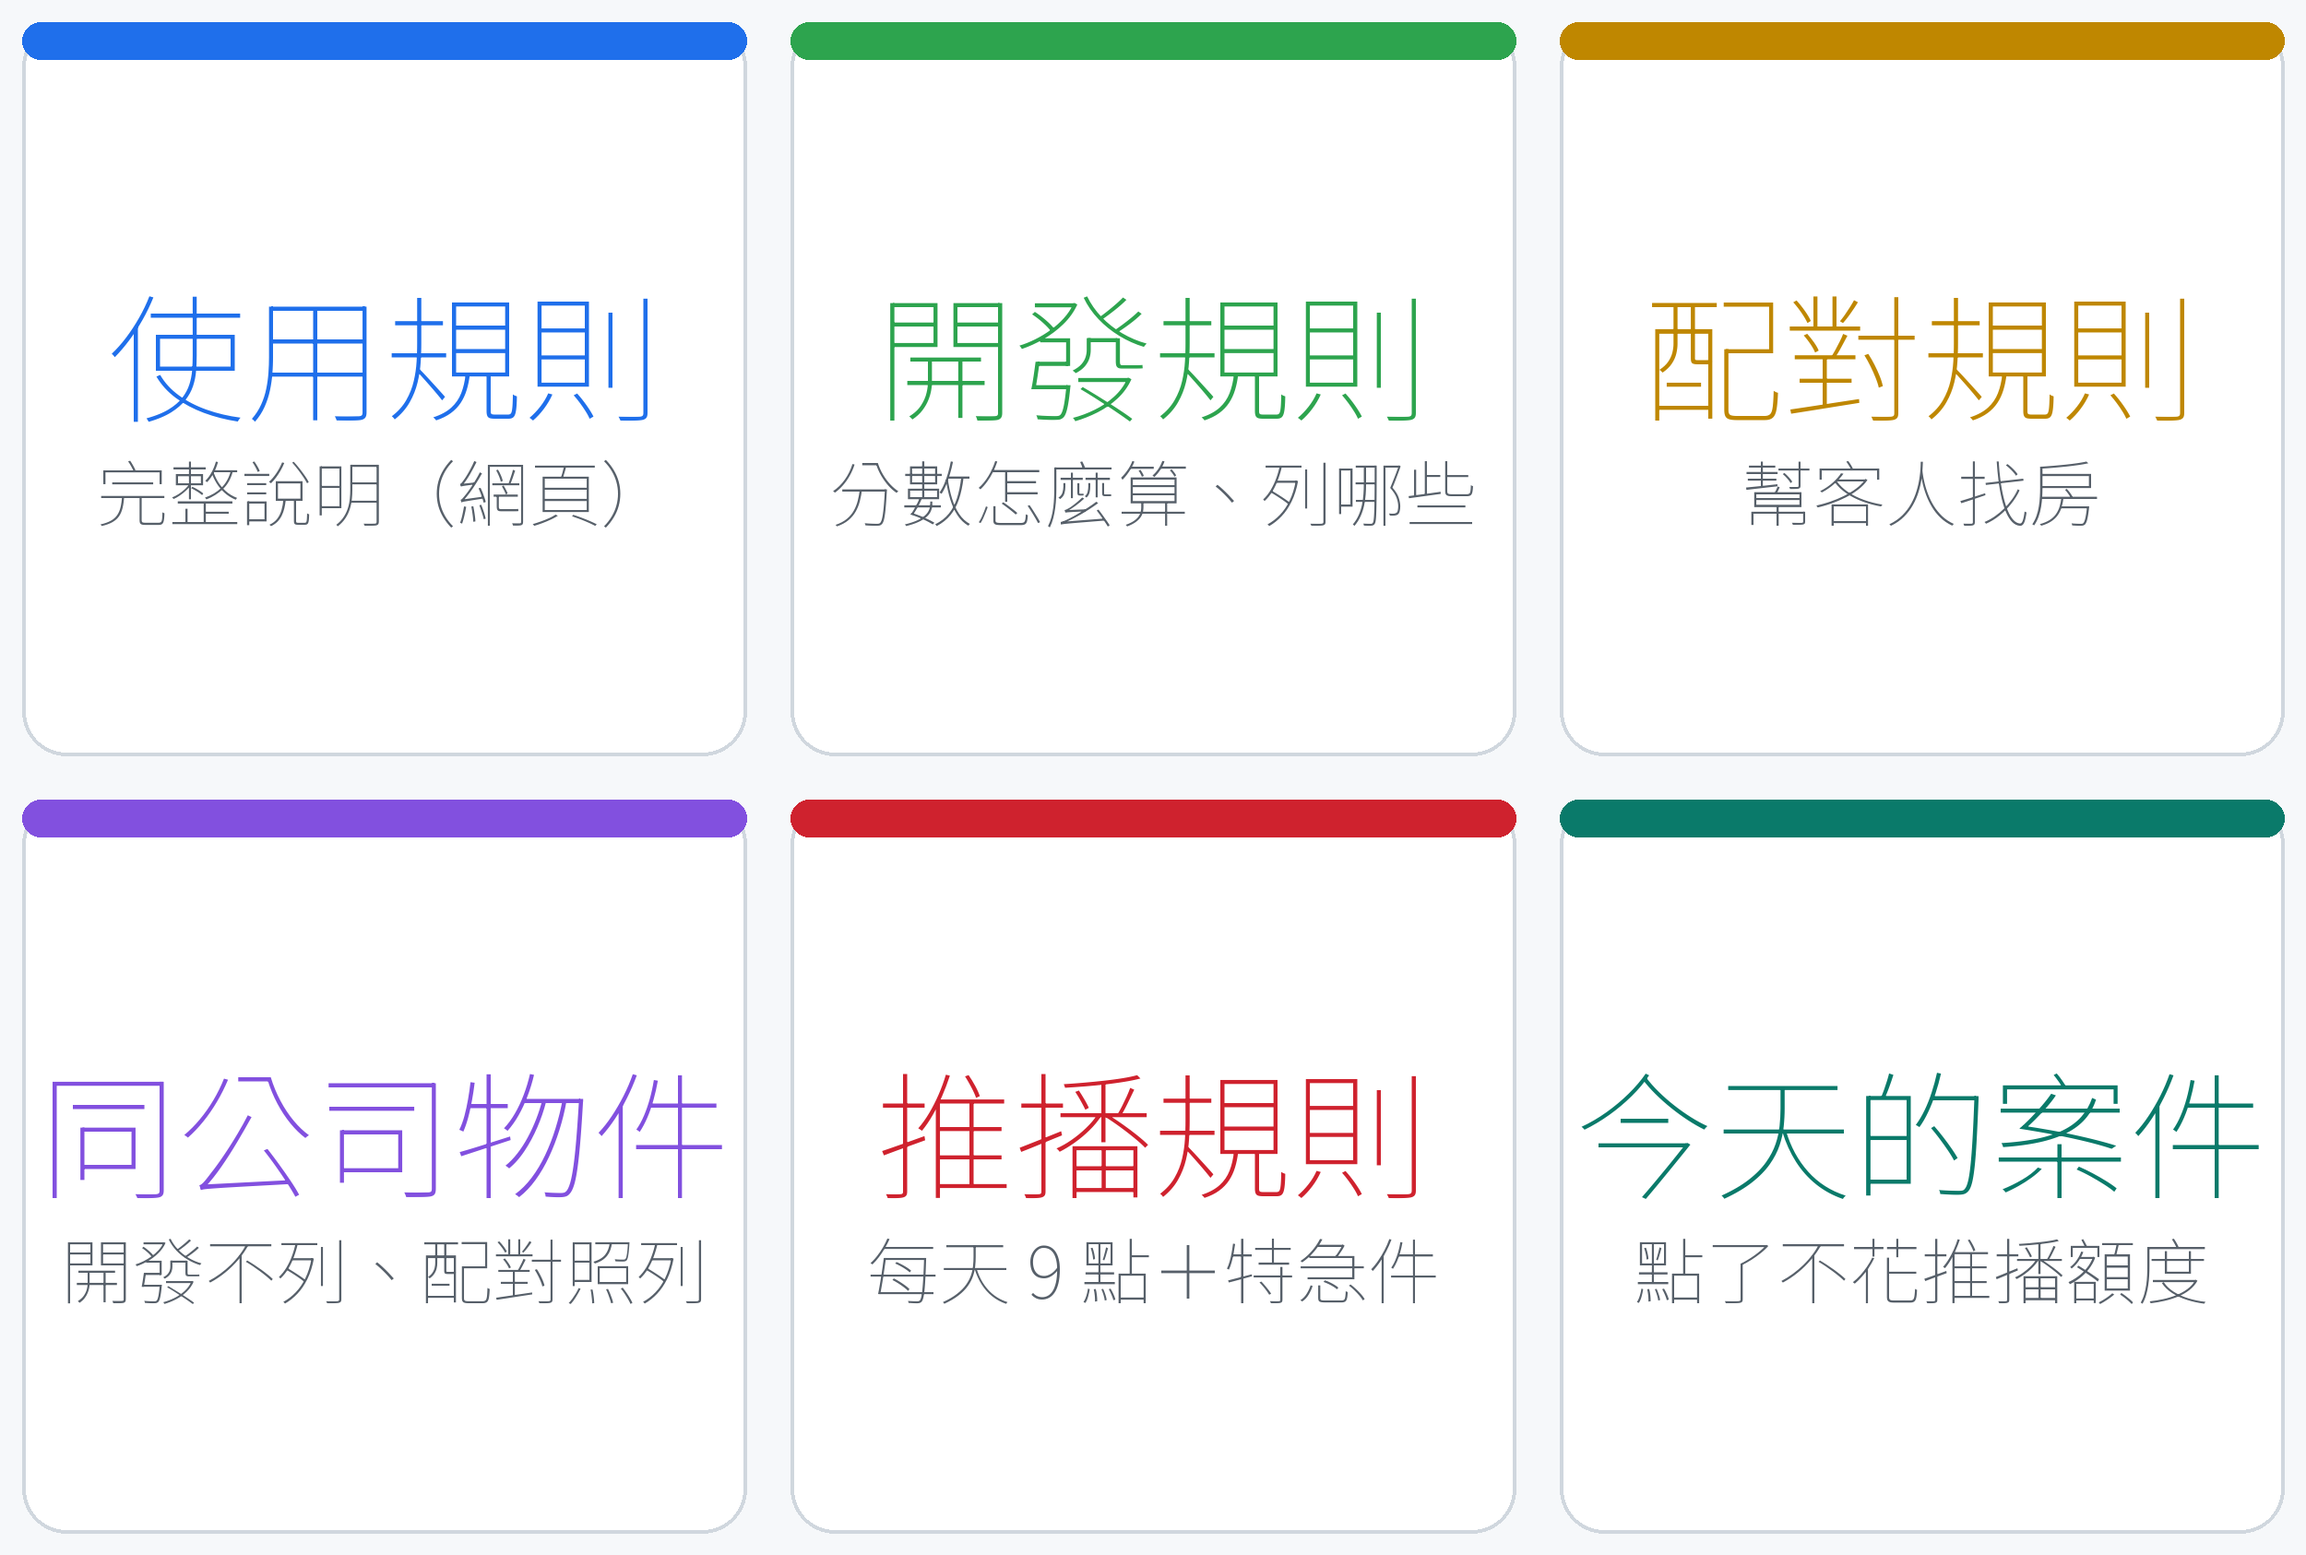
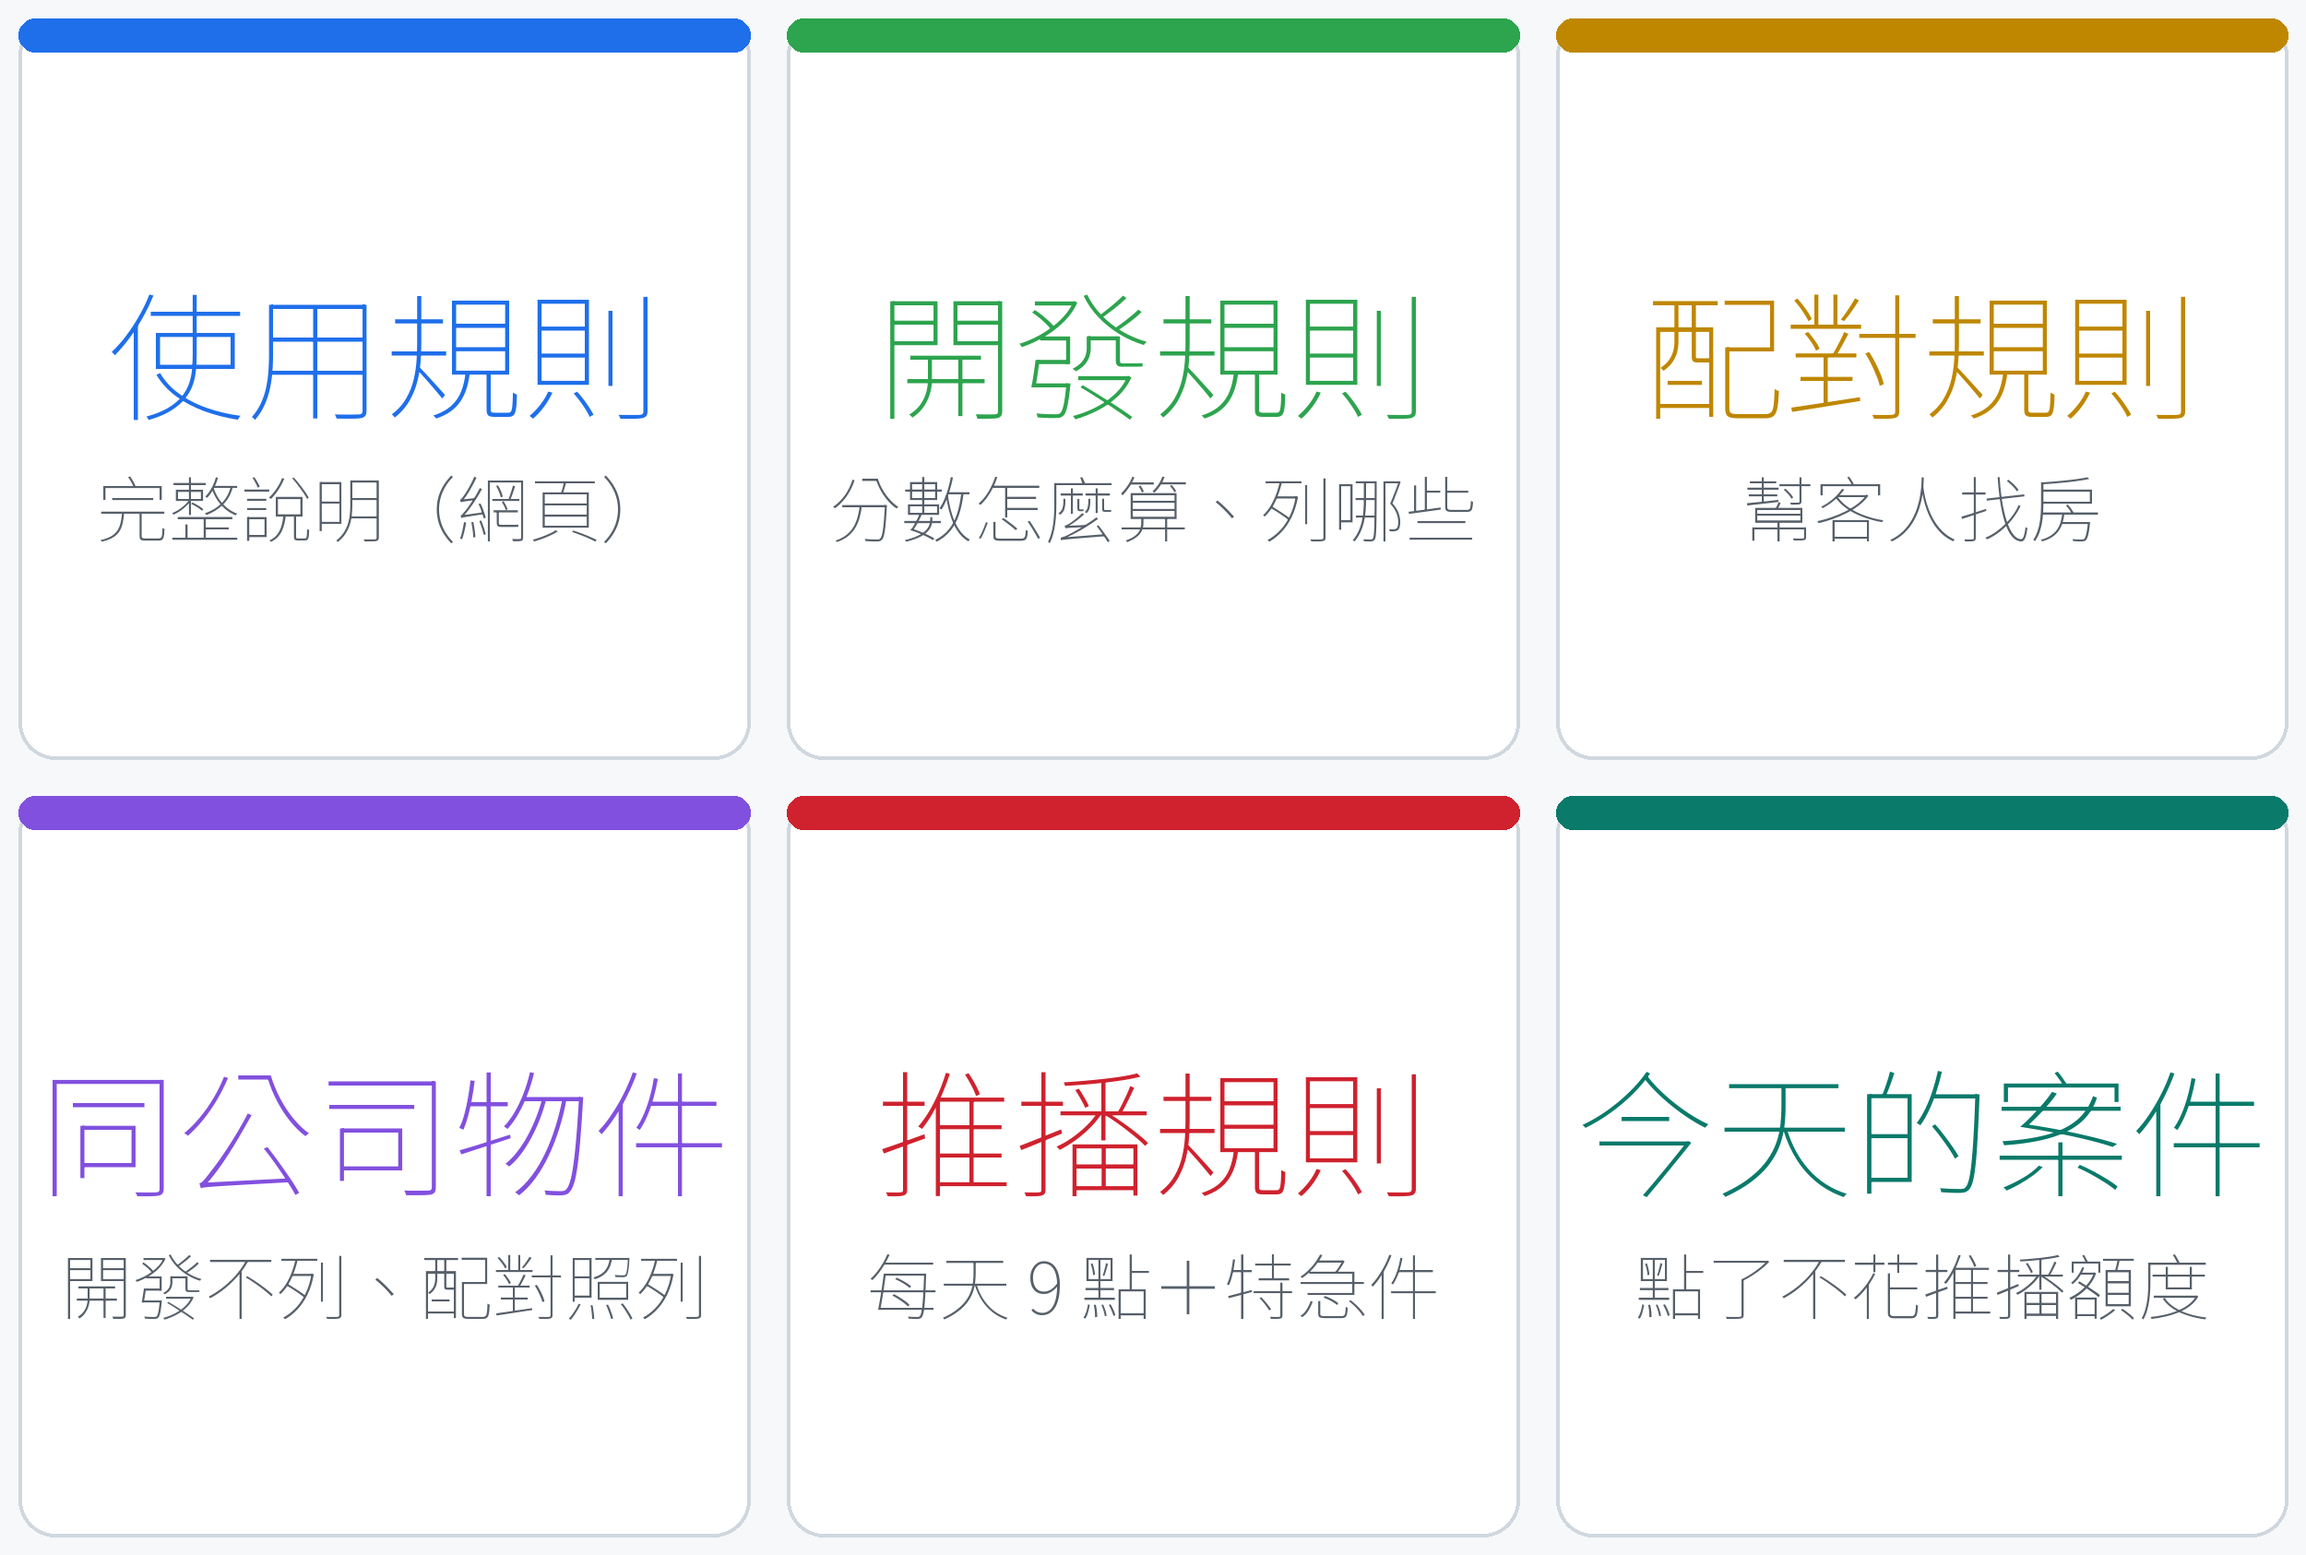
feat: 管理者合併選單（管理＋使用規則），選單版面統一 menus.mjs、網站自動安裝

diff --git a/tools/friends-menu.py b/tools/friends-menu.py
@@ -1,33 +1,29 @@
-# 朋友用的 LINE 對話選單圖（web/public/menu-friends.png，2500×1686，3×2 格）
-#   格子順序要跟 web/src/rules.mjs MENU.cells 一樣；改圖後把 MENU.ver 改掉，Worker 會自己重裝
+# LINE 對話選單圖：朋友用 web/public/menu-friends.png、管理者用 web/public/menu-admin.png（2500×1686）
+#   版面在 web/src/menus.mjs（Worker 也讀同一份）；改圖後把該選單的 ver 改掉，Worker 會自己重裝
 #   用法：python3 tools/friends-menu.py
-import os
+import json, os, subprocess
 from PIL import Image, ImageDraw, ImageFont
 
-W, H = 2500, 1686
-CELLS = [
-    ('使用規則', '完整說明（網頁）', '#1f6feb'),
-    ('開發規則', '分數怎麼算、列哪些', '#2da44e'),
-    ('配對規則', '幫客人找房', '#bf8700'),
-    ('同公司物件', '開發不列、配對照列', '#8250df'),
-    ('推播規則', '每天 9 點＋特急件', '#cf222e'),
-    ('今天的案件', '點了不花推播額度', '#0a7a6a'),
-]
-def font(size):
-    import subprocess   # 本機的 Noto Sans TC 粗體（fc-match 找）
-    path = subprocess.run(["fc-match", "-f", "%{file}", "Noto Sans TC:bold"], capture_output=True, text=True).stdout
-    return ImageFont.truetype(path, size)
+ROOT = os.path.join(os.path.dirname(__file__), '..', 'web')
+SRC = open(os.path.join(ROOT, 'src', 'menus.mjs'), encoding='utf-8').read()
+MENUS = json.loads(SRC[SRC.index('export default') + len('export default'):])
+FONT = subprocess.run(['fc-match', '-f', '%{file}', 'Noto Sans TC:bold'], capture_output=True, text=True).stdout   # 本機 Noto Sans TC 粗體
 
-img = Image.new('RGB', (W, H), '#f6f8fa')
-d = ImageDraw.Draw(img)
-big, small = font(150), font(78)
-cw, ch = W / 3, H / 2
-for i, (t, s, c) in enumerate(CELLS):
-    x0, y0 = (i % 3) * cw, (i // 3) * ch
-    d.rounded_rectangle([x0 + 24, y0 + 24, x0 + cw - 24, y0 + ch - 24], radius=48, fill='white', outline='#d0d7de', width=4)
-    d.rounded_rectangle([x0 + 24, y0 + 24, x0 + cw - 24, y0 + 64], radius=20, fill=c)
-    d.text((x0 + cw / 2, y0 + ch / 2 - 40), t, font=big, fill=c, anchor='mm')
-    d.text((x0 + cw / 2, y0 + ch / 2 + 110), s, font=small, fill='#57606a', anchor='mm')
-out = os.path.join(os.path.dirname(__file__), '..', 'web', 'public', 'menu-friends.png')
-img.save(out, optimize=True)
-print(out, os.path.getsize(out), 'bytes')
+for key in ('friends', 'admin'):
+    m = MENUS[key]
+    img = Image.new('RGB', (2500, 1686), '#f6f8fa')
+    d = ImageDraw.Draw(img)
+    for c in m['cells']:
+        x0, y0, w, h = c['x'], c['y'], c['w'], c['h']
+        big = ImageFont.truetype(FONT, round(h * (0.178 if h > 700 else 0.19)))
+        small = ImageFont.truetype(FONT, round(h * (0.093 if h > 700 else 0.1)))
+        dark = c['c'] == '#24292f'   # 管理按鈕：深底白字，跟使用規則分開
+        d.rounded_rectangle([x0 + 20, y0 + 20, x0 + w - 20, y0 + h - 20], radius=40,
+                            fill=c['c'] if dark else 'white', outline='#d0d7de', width=4)
+        if not dark:
+            d.rounded_rectangle([x0 + 20, y0 + 20, x0 + w - 20, y0 + 56], radius=18, fill=c['c'])
+        d.text((x0 + w / 2, y0 + h / 2 - h * 0.05), c['t'], font=big, fill='white' if dark else c['c'], anchor='mm')
+        d.text((x0 + w / 2, y0 + h / 2 + h * 0.15), c['s'], font=small, fill='#d0d7de' if dark else '#57606a', anchor='mm')
+    out = os.path.join(ROOT, 'public', m['png'])
+    img.save(out, optimize=True)
+    print(out, os.path.getsize(out), 'bytes')
